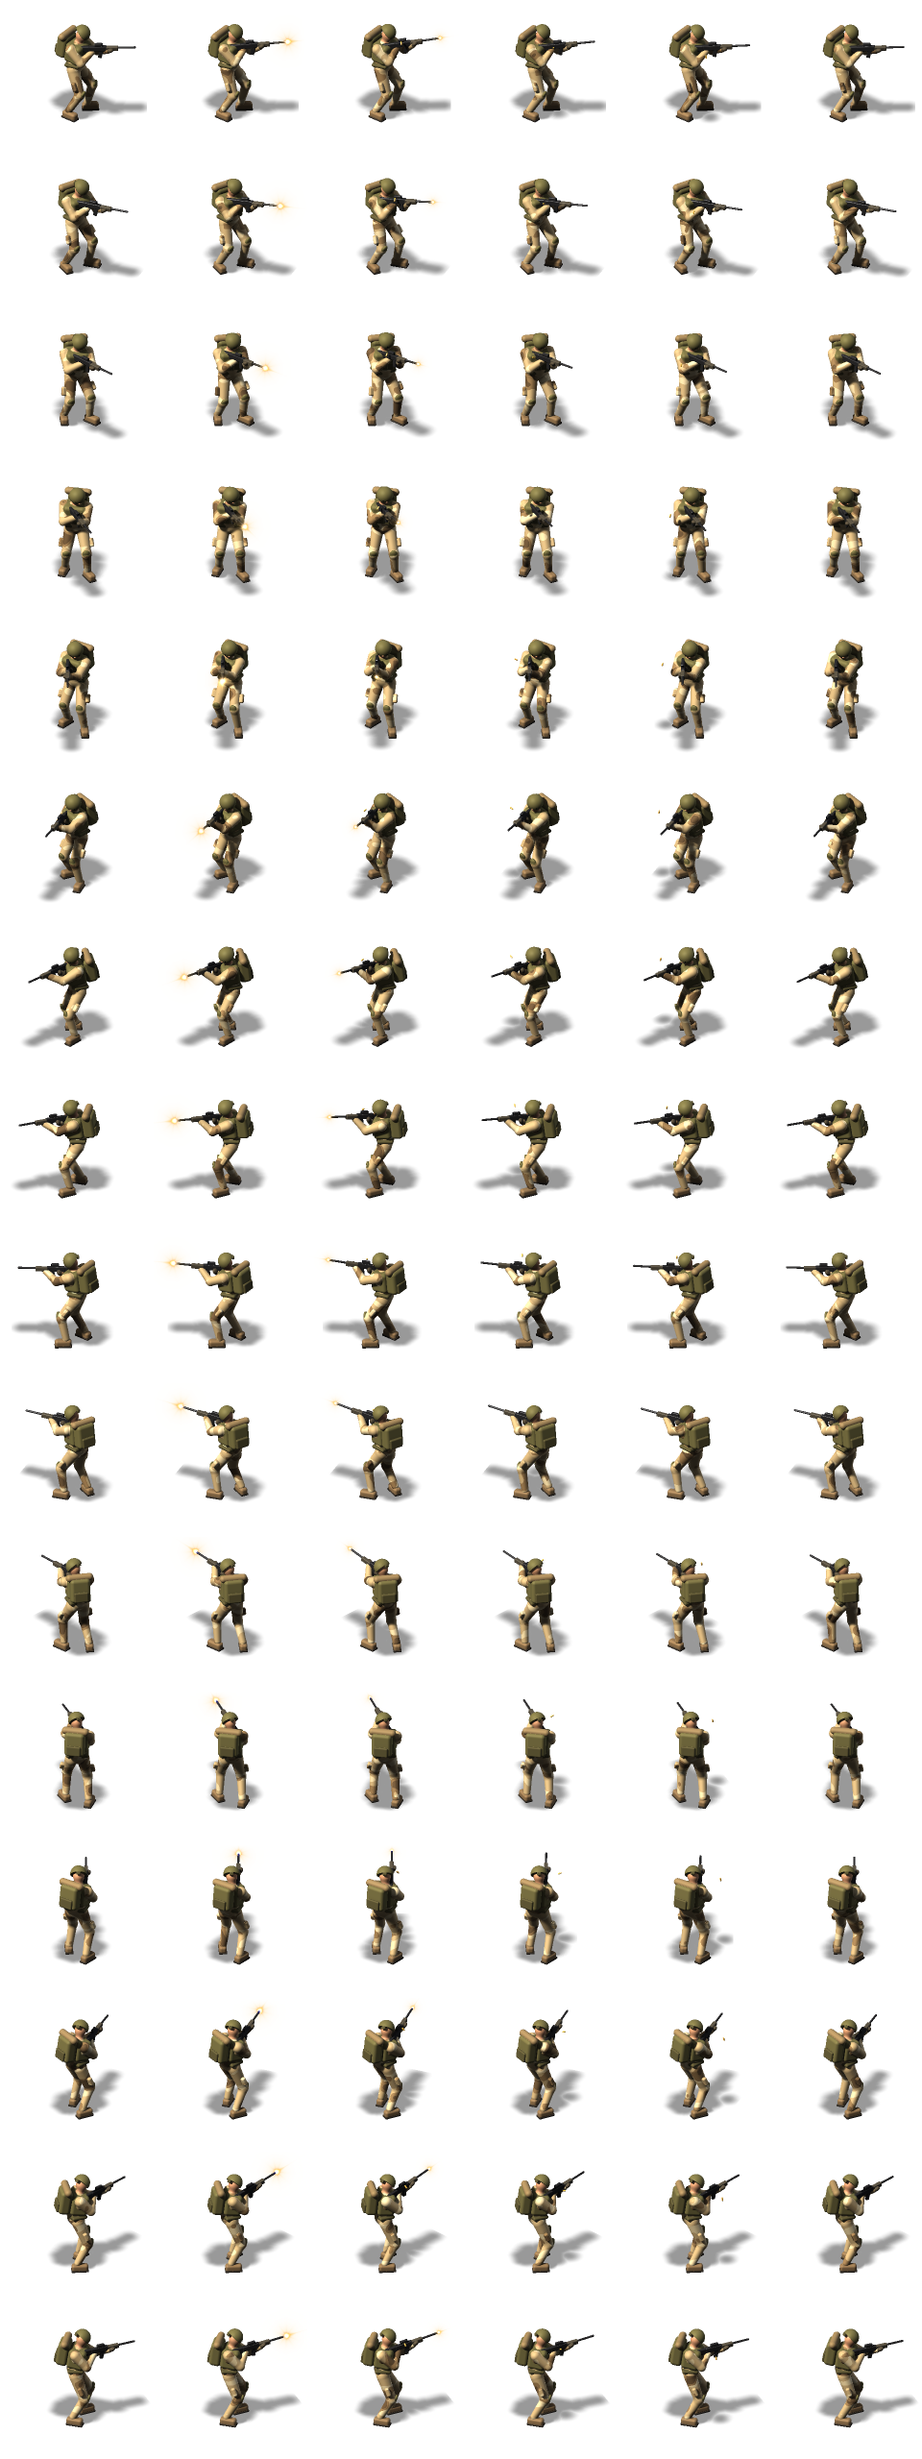
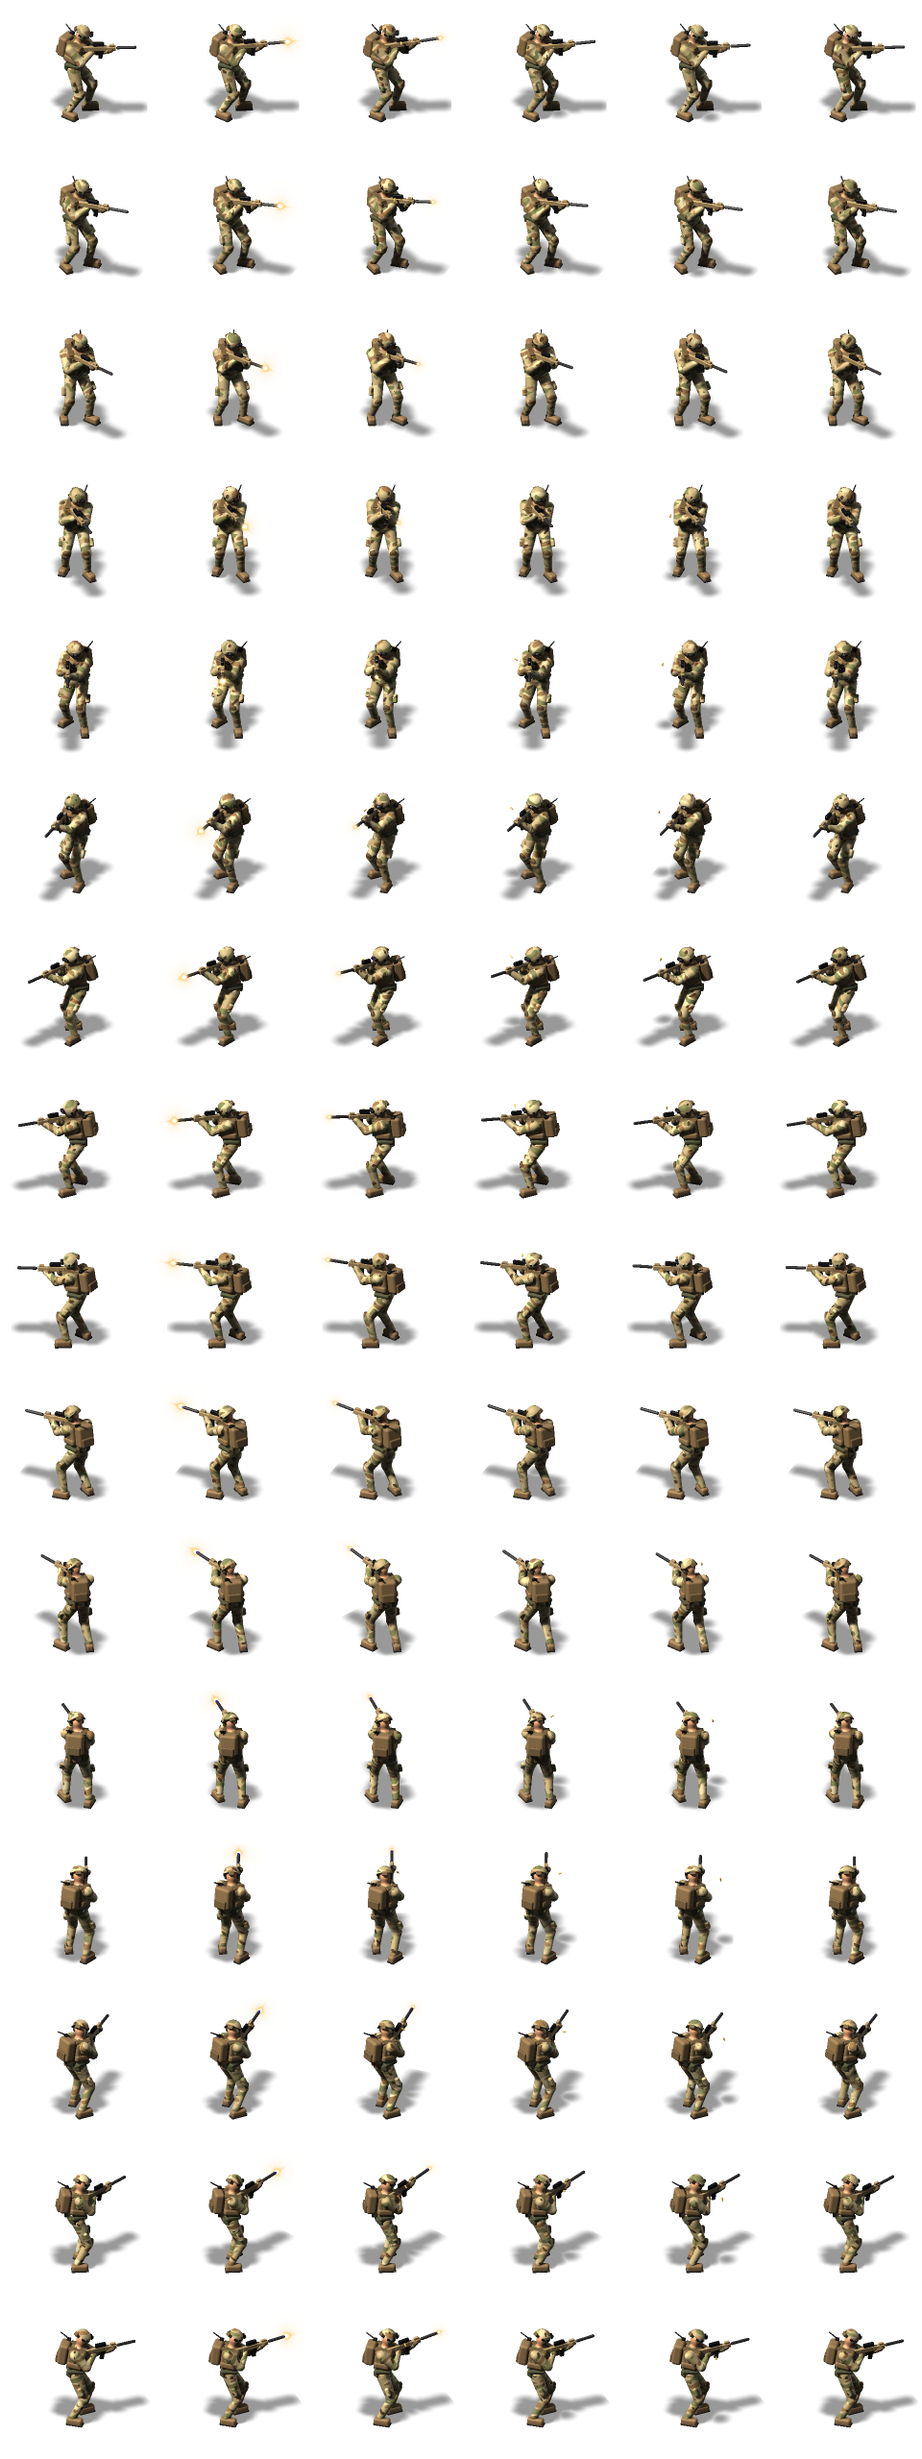
Re-kit the soldier in current-issue equipment
The rig (tools/soldier3d/soldier3d.py) now wears current US Army kit,
simplified so it reads at about 90 px:
- OCP / MultiCam-style uniform (tan, khaki, olive, brown, dark branches)
- coyote low-profile plate carrier: cummerbund, shoulder straps, three
  ranger-green 6.8 mm magazine pouches, admin pouch, tourniquet
- battle belt with first-aid and dump pouches; coyote knee pads and gloves
- high-cut helmet in OCP: side rails, NVG mount, ENVG-B-style binocular
  goggles flipped up, battery pack, comms headset, ballistic glasses
- assault pack with a radio and whip antenna
- M7-style rifle in flat dark earth with a suppressor, a fire-control
  optic and a laser module
The goggles and antenna stay inside the helmet's outline, so the standing
height is the same in every view (93-95 px). Game atlas and stand-alone
sheets re-rendered; docs updated.

Tests: anim 35/35, units 82/82, battle 10/10. Tracers still start 0 px
from the drawn muzzle.

Claude-Session: https://claude.ai/code/session_01PnJZQJwfKQuhKUNyfFw8zk

diff --git a/tools/soldier3d/soldier3d.py b/tools/soldier3d/soldier3d.py
@@ -86,37 +86,51 @@ MAT = {
     "olive2": dict(col=(0.33, 0.31, 0.20), spec=0.05),
     "coyote": dict(col=(0.56, 0.47, 0.33), spec=0.05),
     "skin":   dict(col=(0.80, 0.58, 0.44), spec=0.10),
-    "glove":  dict(col=(0.30, 0.27, 0.22), spec=0.06),
+    "glove":  dict(col=(0.36, 0.30, 0.22), spec=0.06),
     "boot":   dict(col=(0.52, 0.42, 0.30), spec=0.06),
     "sole":   dict(col=(0.20, 0.18, 0.16), spec=0.05),
     "gun":    dict(col=(0.15, 0.15, 0.16), spec=0.45),
     "gunlt":  dict(col=(0.30, 0.28, 0.24), spec=0.25),
     "lens":   dict(col=(0.05, 0.06, 0.08), spec=0.9),
     "brass":  dict(col=(0.90, 0.68, 0.26), spec=0.8),
+    # modern kit: coyote brown carrier, ranger green pouches, black electronics, FDE rifle
+    "cb":     dict(col=(0.50, 0.41, 0.29), spec=0.05),
+    "cb2":    dict(col=(0.40, 0.33, 0.23), spec=0.05),
+    "rg":     dict(col=(0.29, 0.30, 0.22), spec=0.05),
+    "black":  dict(col=(0.08, 0.08, 0.09), spec=0.30),
+    "nvg":    dict(col=(0.11, 0.11, 0.12), spec=0.45),
+    "fde":    dict(col=(0.62, 0.53, 0.38), spec=0.18),
+    "can":    dict(col=(0.17, 0.17, 0.18), spec=0.40),
 }
 MAT_IDS = {k: i for i, k in enumerate(MAT)}
-CAMO_COLS = np.array([
-    (0.74, 0.64, 0.47),   # base sand
-    (0.87, 0.80, 0.64),   # light
-    (0.55, 0.44, 0.30),   # brown
-    (0.38, 0.30, 0.21),   # dark
+CAMO_COLS = np.array([   # OCP / MultiCam-style
+    (0.66, 0.60, 0.45),   # base tan
+    (0.79, 0.74, 0.58),   # light khaki
+    (0.45, 0.46, 0.30),   # olive green
+    (0.53, 0.41, 0.27),   # brown
+    (0.29, 0.22, 0.15),   # dark brown branches
 ])
 _rng = np.random.default_rng(7)
 _K1 = _rng.normal(size=(4, 3))
-_K1 = _K1 / np.linalg.norm(_K1, axis=1, keepdims=True) * 13.0
+_K1 = _K1 / np.linalg.norm(_K1, axis=1, keepdims=True) * 19.0
 _K2 = _rng.normal(size=(4, 3))
-_K2 = _K2 / np.linalg.norm(_K2, axis=1, keepdims=True) * 21.0
+_K2 = _K2 / np.linalg.norm(_K2, axis=1, keepdims=True) * 30.0
 _P1 = _rng.uniform(0, 6.28, 4)
 _P2 = _rng.uniform(0, 6.28, 4)
+_K3 = _rng.normal(size=(4, 3))
+_K3 = _K3 / np.linalg.norm(_K3, axis=1, keepdims=True) * 46.0
+_P3 = _rng.uniform(0, 6.28, 4)
 
 
 def camo_color(q):
     n1 = np.sin(q @ _K1.T + _P1).sum(1) + 0.5 * np.sin(q @ (_K1.T * 2.1) + _P2).sum(1)
     n2 = np.sin(q @ _K2.T + _P2).sum(1) + 0.5 * np.sin(q @ (_K2.T * 1.7) + _P1).sum(1)
+    n3 = np.sin(q @ _K3.T + _P3).sum(1)
     idx = np.zeros(len(q), int)
-    idx[n2 > 1.3] = 1
-    idx[n1 > 1.2] = 2
-    idx[n1 > 2.4] = 3
+    idx[n1 > 0.9] = 1                       # soft khaki fields
+    idx[n2 > 1.25] = 2                      # green blobs
+    idx[n2 < -1.7] = 3                      # brown blobs
+    idx[(n3 > 2.25) & (n1 < 1.8)] = 4       # small dark-brown branches
     return CAMO_COLS[idx]
 
 
@@ -309,7 +323,7 @@ def build(J, fx=None):
         kdir = nrm(np.cross(nrm(an - kn), Rp[:, 0] * sx)) * sx
         fwd = Rp[:, 2]
         kd = nrm(fwd - nrm(kn - hip) * np.dot(fwd, nrm(kn - hip)))
-        pr.append(Prim("ell", "olive", 0.0, c=kn + kd * 0.058,
+        pr.append(Prim("ell", "cb2", 0.0, c=kn + kd * 0.058,
                        R=frame_from(kn - an, Rp[:, 0]), h=(0.062, 0.075, 0.036)))
         # cargo pocket on thigh side
         mid = hip * 0.45 + kn * 0.55
@@ -324,40 +338,68 @@ def build(J, fx=None):
     # pelvis / belt
     pr.append(Prim("ell", "camo", K, tex=(J["pel"], Rp), c=J["pel"], R=Rp,
                    h=(0.19, 0.13, 0.13)))
-    pr.append(Prim("box", "olive2", 0.0, c=J["pel"] + Rp @ np.array([0, 0.06, 0]), R=Rp,
-                   h=(0.192, 0.032, 0.135), rr=0.03))
+    # battle belt with an IFAK (left, behind) and a dump pouch (right, behind)
+    pr.append(Prim("box", "rg", 0.0, c=J["pel"] + Rp @ np.array([0, 0.06, 0]), R=Rp,
+                   h=(0.196, 0.036, 0.138), rr=0.03))
+    pr.append(Prim("box", "cb2", 0.0, c=J["pel"] + Rp @ np.array([0.13, 0.03, -0.12]), R=Rp @ eul(0, -35, 0),
+                   h=(0.035, 0.065, 0.03), rr=0.014))
+    pr.append(Prim("box", "rg", 0.0, c=J["pel"] + Rp @ np.array([-0.13, 0.01, -0.11]), R=Rp @ eul(0, 35, 0),
+                   h=(0.05, 0.05, 0.035), rr=0.02))
     # torso
     pr.append(Prim("rcone", "camo", K, tex=(J["pel"], Rc), a=J["pel"] + Rp @ np.array([0, 0.05, 0]),
                    b=J["chest"], r1=0.15, r2=0.16))
     pr.append(Prim("ell", "camo", K, tex=(J["pel"], Rc), c=J["chest"] + Rc @ np.array([0, 0.03, 0]),
                    R=Rc, h=(0.215, 0.17, 0.13)))
-    # plate carrier + pouches
+    # plate carrier (low-profile, coyote) with cummerbund, shoulder straps and front pouches
     vc = J["chest"] + Rc @ np.array([0, 0.0, 0.01])
-    pr.append(Prim("box", "olive", 0.0, c=vc, R=Rc, h=(0.19, 0.18, 0.15), rr=0.06))
-    for i, x in enumerate((-0.085, 0.0, 0.085)):
-        pr.append(Prim("box", "olive2", 0.0, c=J["chest"] + Rc @ np.array([x * 1.1, -0.07, 0.155]),
-                       R=Rc, h=(0.04, 0.066, 0.034), rr=0.014))
-    pr.append(Prim("box", "olive2", 0.0, c=J["chest"] + Rc @ np.array([0.10, 0.09, 0.15]),
-                   R=Rc @ eul(0, 0, -12), h=(0.035, 0.04, 0.022), rr=0.01))
-    # backpack
-    pr.append(Prim("box", "olive", 0.0, c=J["chest"] + Rc @ np.array([0, 0.03, -0.235]),
-                   R=Rc, h=(0.17, 0.21, 0.10), rr=0.06))
-    pr.append(Prim("box", "olive2", 0.0, c=J["chest"] + Rc @ np.array([0, -0.07, -0.335]),
-                   R=Rc, h=(0.12, 0.085, 0.035), rr=0.022))
-    pr.append(Prim("rcone", "coyote", 0.0, a=J["chest"] + Rc @ np.array([-0.17, 0.25, -0.23]),
-                   b=J["chest"] + Rc @ np.array([0.17, 0.25, -0.23]), r1=0.062, r2=0.062))
-    # neck + head
+    pr.append(Prim("box", "cb", 0.0, c=vc, R=Rc, h=(0.185, 0.175, 0.148), rr=0.05))
+    pr.append(Prim("box", "cb", 0.0, c=J["chest"] + Rc @ np.array([0, -0.105, 0.0]), R=Rc,
+                   h=(0.205, 0.062, 0.138), rr=0.045))
+    for x in (-0.11, 0.11):
+        pr.append(Prim("box", "cb2", 0.0, c=J["chest"] + Rc @ np.array([x, 0.165, 0.0]), R=Rc,
+                       h=(0.048, 0.022, 0.15), rr=0.016))
+    for x in (-0.088, 0.0, 0.088):          # triple magazine pouch (6.8 mm mags stand tall)
+        pr.append(Prim("box", "rg", 0.0, c=J["chest"] + Rc @ np.array([x, -0.07, 0.162]),
+                       R=Rc, h=(0.04, 0.075, 0.034), rr=0.014))
+    pr.append(Prim("box", "cb2", 0.0, c=J["chest"] + Rc @ np.array([0, 0.075, 0.158]),
+                   R=Rc, h=(0.105, 0.042, 0.022), rr=0.012))                  # admin pouch
+    pr.append(Prim("rcone", "black", 0.0, a=J["chest"] + Rc @ np.array([0.085, 0.14, 0.15]),
+                   b=J["chest"] + Rc @ np.array([0.145, 0.14, 0.13]), r1=0.019, r2=0.019))  # tourniquet
+    # assault pack, radio and whip antenna
+    pr.append(Prim("box", "cb", 0.0, c=J["chest"] + Rc @ np.array([0, 0.02, -0.23]),
+                   R=Rc, h=(0.15, 0.19, 0.085), rr=0.05))
+    pr.append(Prim("box", "cb2", 0.0, c=J["chest"] + Rc @ np.array([0, -0.08, -0.318]),
+                   R=Rc, h=(0.11, 0.075, 0.03), rr=0.02))
+    rad = J["chest"] + Rc @ np.array([0.10, 0.17, -0.20])
+    pr.append(Prim("box", "black", 0.0, c=rad, R=Rc, h=(0.036, 0.07, 0.032), rr=0.01))
+    pr.append(Prim("rcone", "black", 0.0, a=rad + Rc @ np.array([0, 0.06, 0]),
+                   b=rad + Rc @ np.array([0.03, 0.13, -0.16]), r1=0.011, r2=0.008))
+    # neck + head: ballistic glasses, comms headset, high-cut helmet with NVG mount and ENVG-B (up)
     pr.append(Prim("rcone", "skin", K, a=J["neck"] - up_c * 0.03, b=J["head"] - Rh[:, 1] * 0.04,
                    r1=0.065, r2=0.06))
     pr.append(Prim("ell", "skin", K, c=J["head"], R=Rh, h=(0.096, 0.112, 0.105)))
     pr.append(Prim("sph", "skin", 0.0, c=J["head"] + Rh @ np.array([0, -0.015, 0.106]), r1=0.022))
     pr.append(Prim("box", "lens", 0.0, c=J["head"] + Rh @ np.array([0, 0.02, 0.088]), R=Rh,
                    h=(0.078, 0.021, 0.02), rr=0.013))
+    for x in (-0.1, 0.1):
+        pr.append(Prim("ell", "rg", 0.0, c=J["head"] + Rh @ np.array([x, -0.005, 0.0]), R=Rh,
+                       h=(0.03, 0.05, 0.044)))
     hel_c = J["head"] + Rh @ np.array([0, 0.036, -0.016])
-    cut_n = nrm(np.array([0, 1.0, 0.62]))
-    pr.append(Prim("sph", "olive", 0.0, c=hel_c, R=Rh, r1=0.140, cut=(cut_n, -0.018)))
-    pr.append(Prim("box", "olive2", 0.0, c=hel_c + Rh @ np.array([0, 0.03, -0.128]), R=Rh,
-                   h=(0.035, 0.025, 0.02), rr=0.012))
+    cut_n = nrm(np.array([0, 1.0, 0.5]))
+    pr.append(Prim("sph", "camo", 0.0, tex=(hel_c, Rh), c=hel_c, R=Rh, r1=0.140, cut=(cut_n, -0.004)))
+    for x in (-0.128, 0.128):               # side rails
+        pr.append(Prim("box", "black", 0.0, c=hel_c + Rh @ np.array([x, 0.0, 0.0]), R=Rh,
+                       h=(0.01, 0.016, 0.065), rr=0.005))
+    Rn = Rh @ eul(-28, 0, 0)
+    pr.append(Prim("box", "black", 0.0, c=hel_c + Rh @ np.array([0, 0.03, 0.132]), R=Rn,
+                   h=(0.032, 0.024, 0.012), rr=0.006))                         # NVG shroud
+    pr.append(Prim("box", "nvg", 0.0, c=hel_c + Rh @ np.array([0, 0.032, 0.152]), R=Rh @ eul(-55, 0, 0),
+                   h=(0.058, 0.024, 0.028), rr=0.012))                         # ENVG-B, flipped up
+    for x in (-0.032, 0.032):
+        pr.append(Prim("rcone", "nvg", 0.0, a=hel_c + Rh @ np.array([x, 0.026, 0.166]),
+                       b=hel_c + Rh @ np.array([x, 0.054, 0.164]), r1=0.019, r2=0.017))
+    pr.append(Prim("box", "cb2", 0.0, c=hel_c + Rh @ np.array([0, 0.035, -0.13]), R=Rh @ eul(25, 0, 0),
+                   h=(0.048, 0.032, 0.022), rr=0.012))                         # battery / counterweight
     # arms
     for s, sx in (("L", 1), ("R", -1)):
         sh, el, wr = J["sh" + s], J["el" + s], J["wr" + s]
@@ -370,17 +412,17 @@ def build(J, fx=None):
     # rifle
     go, gR = J["gun_o"], J["gun_R"]
     G = lambda v: go + gR @ (np.asarray(v, float) * GS)
-    pr.append(Prim("box", "gun", 0.0, c=G((0, -0.01, 0.08)), R=gR, h=(0.0253, 0.0575, 0.1035), rr=0.018))
-    pr.append(Prim("box", "gun", 0.0, c=G((0, 0.0, 0.29)), R=gR, h=(0.0299, 0.0437, 0.1495), rr=0.01))
-    pr.append(Prim("box", "gunlt", 0.0, c=G((0, -0.005, 0.5)), R=gR, h=(0.0333, 0.0368, 0.1035), rr=0.012))
-    pr.append(Prim("rcone", "gun", 0.0, a=G((0, 0.005, 0.58)), b=go + gR @ MUZZLE, r1=0.016, r2=0.016))
-    pr.append(Prim("box", "gun", 0.0, c=G((0, -0.1, 0.33)), R=gR @ eul(12, 0, 0),
-                   h=(0.0184, 0.0747, 0.0310), rr=0.008))
-    pr.append(Prim("box", "gun", 0.0, c=G((0, -0.065, 0.2)), R=gR @ eul(-18, 0, 0),
-                   h=(0.0184, 0.0517, 0.0230), rr=0.008))
-    pr.append(Prim("box", "gun", 0.0, c=G((0, 0.06, 0.3)), R=gR, h=(0.0230, 0.0299, 0.0633), rr=0.012))
-    pr.append(Prim("box", "lens", 0.0, c=G((0, 0.062, 0.358)), R=gR, h=(0.0184, 0.0207, 0.0046),
-                   rr=0.003))
+    pr.append(Prim("box", "fde", 0.0, c=G((0, -0.01, 0.08)), R=gR, h=(0.0235, 0.055, 0.1035), rr=0.018))   # stock
+    pr.append(Prim("box", "fde", 0.0, c=G((0, 0.0, 0.29)), R=gR, h=(0.0299, 0.0437, 0.1495), rr=0.01))     # receiver
+    pr.append(Prim("box", "fde", 0.0, c=G((0, -0.004, 0.47)), R=gR, h=(0.0333, 0.0368, 0.10), rr=0.012))    # handguard
+    pr.append(Prim("rcone", "can", 0.0, a=G((0, 0.003, 0.585)), b=go + gR @ MUZZLE, r1=0.024, r2=0.024))  # suppressor
+    pr.append(Prim("box", "black", 0.0, c=G((0, -0.105, 0.335)), R=gR @ eul(10, 0, 0),
+                   h=(0.0184, 0.085, 0.034), rr=0.008))                                                  # magazine
+    pr.append(Prim("box", "black", 0.0, c=G((0, -0.065, 0.2)), R=gR @ eul(-18, 0, 0),
+                   h=(0.0184, 0.0517, 0.0230), rr=0.008))                                                # grip
+    pr.append(Prim("box", "black", 0.0, c=G((0, 0.072, 0.30)), R=gR, h=(0.026, 0.036, 0.09), rr=0.014))  # fire-control optic
+    pr.append(Prim("box", "lens", 0.0, c=G((0, 0.075, 0.38)), R=gR, h=(0.021, 0.024, 0.004), rr=0.004))
+    pr.append(Prim("box", "fde", 0.0, c=G((0, 0.047, 0.50)), R=gR, h=(0.022, 0.017, 0.042), rr=0.006))   # laser / light
     # ejected casing
     if fx.get("casing") is not None:
         cp, ang = fx["casing"]

diff --git a/tools/slice_sprites.py b/tools/slice_sprites.py
@@ -308,7 +308,7 @@ def reach8(items, d):
         up = ys < ys.min() + 0.7 * (ys.max() - ys.min())
         return float(((xs[up] - it[1][0]) * vx + (ys[up] - it[1][1]) * vy).max())
     return sorted(items, key=r)
-# (the sheet's desert camouflage is kept: it matches the desert soldier, soldier16.*)
+# (the sheet's tan desert camouflage is kept: it is close to the soldier's OCP pattern, soldier16.*)
 for d in DIRS8:
     S8.add("z_walk_" + d, ZS[d][0:5]); S8.add("z_attack_" + d, reach8(ZS[d][5:7], d)); S8.add("z_die_" + d, ZS[d][7:10])
 S8.save(os.path.join(OUT, "infected_soldier8.png"), os.path.join(OUT, "infected_soldier8.json"),

diff --git a/tools/soldier3d/assemble.py b/tools/soldier3d/assemble.py
@@ -116,7 +116,7 @@ def main():
     print("ok")
 
 
-README = """Desert soldier sprite sheets
+README = """Soldier sprite sheets (current-issue kit)
 ============================
 
 Frames: 160 x 160 px, transparent background, soft ground shadow included.

diff --git a/README.md b/README.md
@@ -44,7 +44,7 @@ can install it as an app from Chrome, Edge or Brave.
 | Infection | ✔ a bite can infect a soldier (5 % per bite on medium, less with armour; ×0.5 on low, ×1.5 on high). He turns 22–36 s later (countdown over his head), and the new infected goes for his own squad. A soldier killed while infected rises 4 s later |
 | Corpse piles | ✔ bodies stack where they fall (1.5 m cells, about 0.17 m per body, up to 1.7 m). Piles slow anyone crossing them, lift whoever stands on them, and once a pile reaches the top of sandbags, a barricade, a concrete barrier, an MG nest or a wreck, the infected climb over it |
 | Commands | ✔ move, attack-move, attack (focus fire), stop, hold, defend, patrol, follow, retreat, interact, board/unload, build, clear wreck |
-| Infantry (10) | ✔ rifleman, assault, sniper, machine gunner, shotgun, flamethrower, rocket, medic (heals), engineer (builds, clears), special forces. The starting squad has 9: two riflemen, assault, MG, sniper, shotgun, rocket, medic, engineer. Drawn from the desert soldier sheet (rendered from one 3D rig) in 16 directions: breathing idle, walking, firing toward the target (a small muzzle flash at the barrel on every shot, and the tracer leaves the barrel) and dying (falls face down, plays once, the body stays) |
+| Infantry (10) | ✔ rifleman, assault, sniper, machine gunner, shotgun, flamethrower, rocket, medic (heals), engineer (builds, clears), special forces. The starting squad has 9: two riflemen, assault, MG, sniper, shotgun, rocket, medic, engineer. Drawn from the soldier sheet (rendered from one 3D rig, in current-issue kit: OCP-pattern uniform, plate carrier, high-cut helmet with night-vision goggles and headset, suppressed rifle with a fire-control optic) in 16 directions: breathing idle, walking, firing toward the target (a small muzzle flash at the barrel on every shot, and the tracer leaves the barrel) and dying (falls face down, plays once, the body stays) |
 | Vehicles (6) | ✔ jeep, APC, IFV, tank, transport truck (ammo for nearby infantry), recovery vehicle (repairs). You get them through logistics once the FOB motor pool is built, and they arrive at the FOB gate. They crush infected, carry passengers (right-click a vehicle to board, U to unload) and draw as simple box models |
 | Infected (8) | ✔ walker, runner, crawler, brute (knockback, breaks doors), bloater (explodes), screamer (calls hordes), mutant (leaps), Abomination (boss, ground slam). Drawn from your sprite sheets in steadied 8-direction views: walk, run and crawl cycles follow the distance moved, attacks land on the real hit, and the dead fall over before lying still (the Abomination stays a 3D model) |
 | Infected AI | ✔ sight with line of sight, hearing (gunfire, explosions, screams), pursuit with shared flow fields, swarming, losing targets, investigating noise, breaking doors and defences, attacking vehicles |

diff --git a/docs/ASSETS.md b/docs/ASSETS.md
@@ -22,9 +22,18 @@ previous soldier sheet. It is no longer used and nothing cuts it.
 
 ## Infantry soldier (`public/sprites/soldier16.*`)
 
-* **Source:** a desert-camo rifleman built from 3D shapes and rendered from a 3/4 camera
-  (`tools/soldier3d/soldier3d.py` for the rig, `anims.py` for the poses). Every frame comes from the
+* **Source:** a rifleman built from 3D shapes and rendered from a 3/4 camera
+  (`tools/soldier3d/soldier3d.py` for the rig and kit, `anims.py` for the poses). Every frame comes from the
   same rig at the same scale, so the figure doesn't change between frames, clips or views.
+* **Kit** (current US Army issue, simplified so it reads at about 90 px tall):
+  * uniform in an OCP / MultiCam-style pattern (tan, khaki, olive, brown, dark-brown branches);
+  * coyote plate carrier with a cummerbund, three ranger-green magazine pouches, an admin pouch and
+    a tourniquet; a battle belt with a first-aid pouch and a dump pouch; knee pads;
+  * high-cut helmet in OCP with side rails, a night-vision mount and binocular night-vision goggles
+    flipped up, a battery pack at the back, and a comms headset under it; ballistic glasses;
+  * assault pack with a radio and whip antenna;
+  * M7-style rifle in flat dark earth with a suppressor, a fire-control optic and a laser module.
+  The palette and every item are in `build()` in `tools/soldier3d/soldier3d.py`.
 * **Views:** 16, every 22.5°: N, NNE, NE, ENE, E, ESE, SE, SSE, S, SSW, SW, WSW, W, WNW, NW, NNW
   (N = back to the viewer, S = facing the viewer, clockwise). They are listed in the JSON's `views`.
 * **Building it:** `cd tools/soldier3d && python3 game_atlas.py` (about 5 minutes on 2 cores, needs
@@ -88,9 +97,9 @@ previous soldier sheet. It is no longer used and nothing cuts it.
 * **Slicing:** by grid cell (some frames touch). Each row is scaled so the standing figure is 100 px
   tall, because the sheet's rows are not drawn at one size. Standing frames are anchored at the hips
   (the stride doesn't shift the body); kneeling and lying ones at the body's middle. Reach frames are
-  ordered by how far the arm reaches along the view (ready, grab). The sheet's desert camouflage is
-  kept as drawn, so a soldier who turns still wears the desert soldier's uniform. (It used to be
-  re-dyed olive to match the previous soldier sheet.)
+  ordered by how far the arm reaches along the view (ready, grab). The sheet's tan desert
+  camouflage is kept as drawn, which is close to the soldier's OCP pattern. (It used to be re-dyed
+  olive to match the previous soldier sheet.)
 * **Clips:** `z_walk_<D>`, `z_attack_<D>`, `z_die_<D>`.
 * **In the game** (`zpose8`): steadied 8-direction views as for soldiers, facing the way he really
   moves or his victim. The step cycle (stride frames 1-2-3-4-3-2 when hurrying, 0-1-2-3-2-1 slower)

diff --git a/assets/source/desert_soldier/README.md b/assets/source/desert_soldier/README.md
@@ -1,7 +1,12 @@
-# Desert soldier sheets (16 directions)
+# Soldier sheets (16 directions)
 
 Rendered in code from one 3D soldier rig (`tools/soldier3d/`), so the figure, gear and camo are the
 same in every frame and every direction. Made for this project; free to redistribute with it.
+
+The kit follows current US Army issue: an OCP-pattern uniform; a plate carrier with magazine pouches;
+a high-cut helmet with night-vision goggles flipped up and a comms headset; an assault pack with a
+radio antenna; and an M7-style suppressed rifle with a fire-control optic (see `docs/ASSETS.md`).
+The folder keeps its old name.
 
 `soldier_preview.gif` shows 8 of the 16 directions playing every clip.
 
